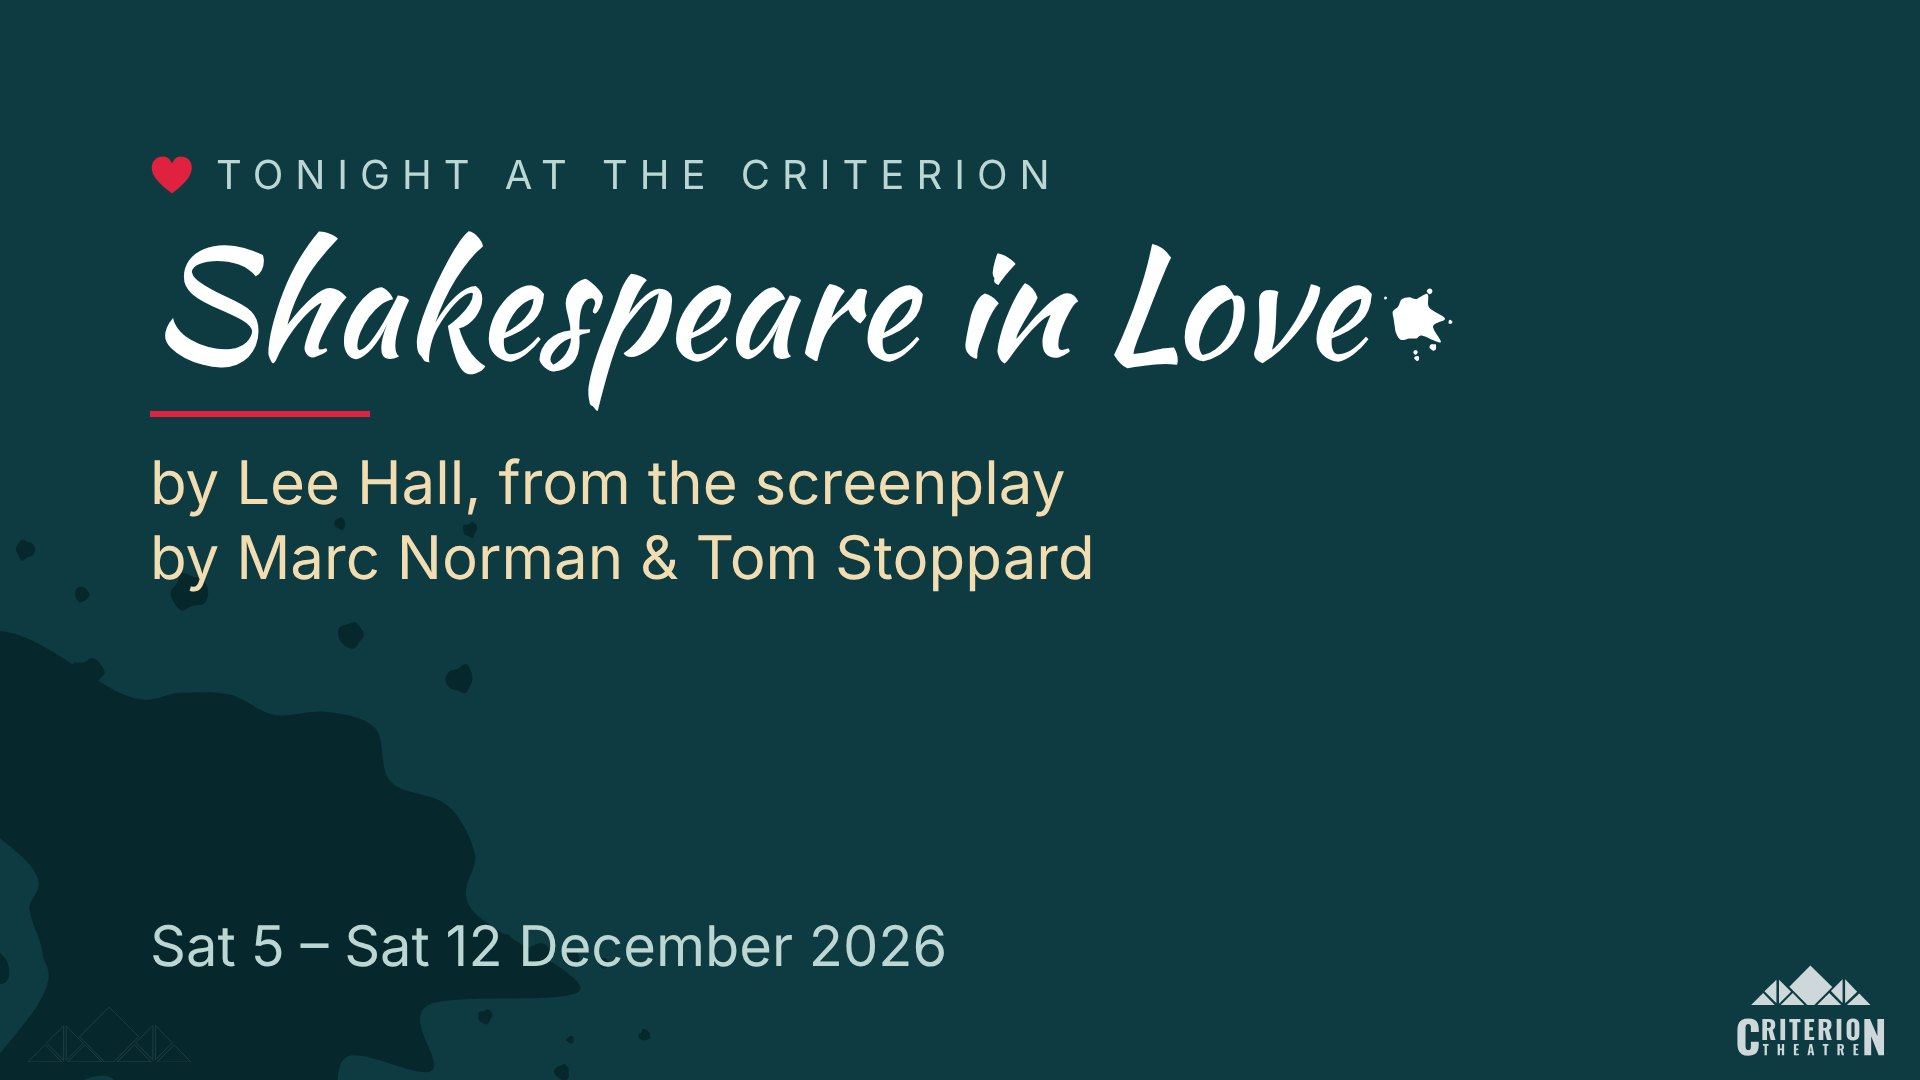
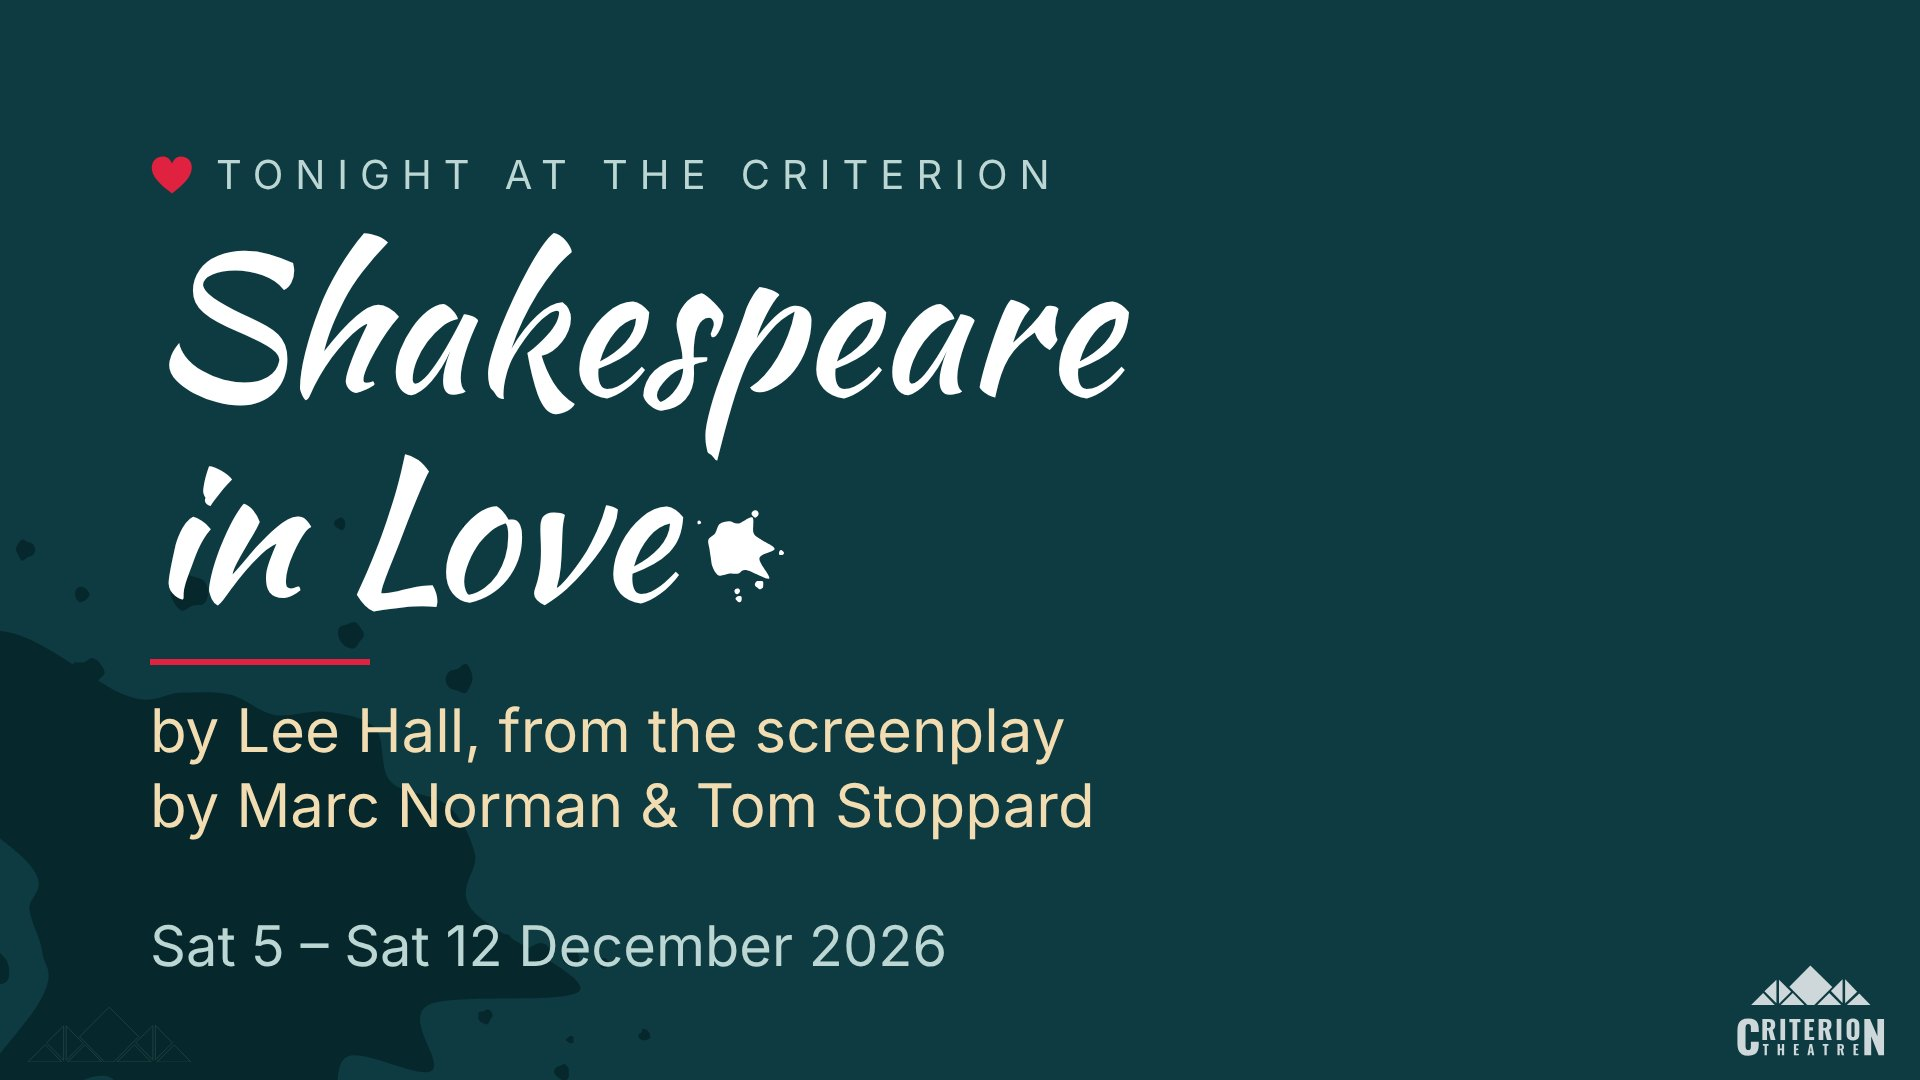
SiL looks: two-line title cards and real stage-camera overlay

Changed region(s): [[0.0625, 0.2139, 0.75, 0.5806], [0.0625, 0.6111, 0.5938, 0.7639]]

diff --git a/looks/shakespeare-in-love-2026/index.html b/looks/shakespeare-in-love-2026/index.html
@@ -68,10 +68,10 @@ allow &mdash; five shown here. Captions and credits come from the team.</p><div 
 silent, looping inside the card. New on this screen; if it isn&rsquo;t ready by the build week, a still from the clip takes its place.</figcaption></figure>
 <figure><img src="sheet-img/card-vignette.jpg"><figcaption><b>Wigs and wardrobe.</b> Close-ups of the costumes and wigs, one card per department, with credits.</figcaption></figure></div></div><div class=pno>6</div></section><section class=page><div class=pin><div class=kick>During the performance &middot; what the foyer sees while the play is on</div>
 <h2>Live from the stage &mdash; with two alternatives</h2>
-<p>The foyer screen shows the stage camera during both acts, as for Underdog, now with a caption saying what it is.
+<p>The foyer screen shows the stage camera during both acts, as for Underdog, with an &ldquo;On stage now&rdquo; badge and the Criterion logo.
 Two alternatives are being built: a quiet &ldquo;performance in progress&rdquo; card for the bar and latecomers, and the same card with a
 small live picture. If they&rsquo;re ready by the build week you can choose; if not, it&rsquo;s the camera.</p>
-<div class=opt style="margin-top:5mm"><figure><img src="sheet-img/perf-camera.jpg"><figcaption><b>1 &middot; Live camera</b> with a caption. The default.</figcaption></figure>
+<div class=opt style="margin-top:5mm"><figure><img src="sheet-img/perf-camera.jpg"><figcaption><b>1 &middot; Live camera</b> with the &ldquo;On stage now&rdquo; badge and the Criterion logo. The default.</figcaption></figure>
 <figure><img src="sheet-img/perf-holding.jpg"><figcaption><b>2 &middot; Performance card</b> &mdash; where we are in the evening, no picture.</figcaption></figure>
 <figure><img src="sheet-img/perf-holding-pip.jpg"><figcaption><b>3 &middot; Card and small picture.</b></figcaption></figure></div>
 <p style="margin-top:8mm">The real thing, from the last show: <b>https://chalky56.github.io/criterion-foyer-preview/underdog-2026/?preview=1</b></p></div><div class=pno>7</div></section></html>
